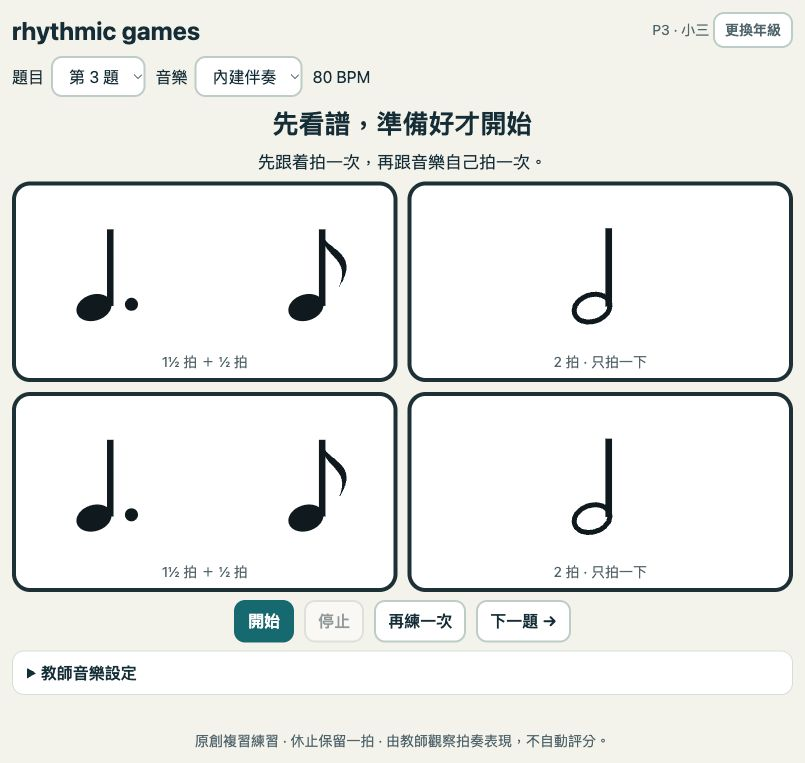
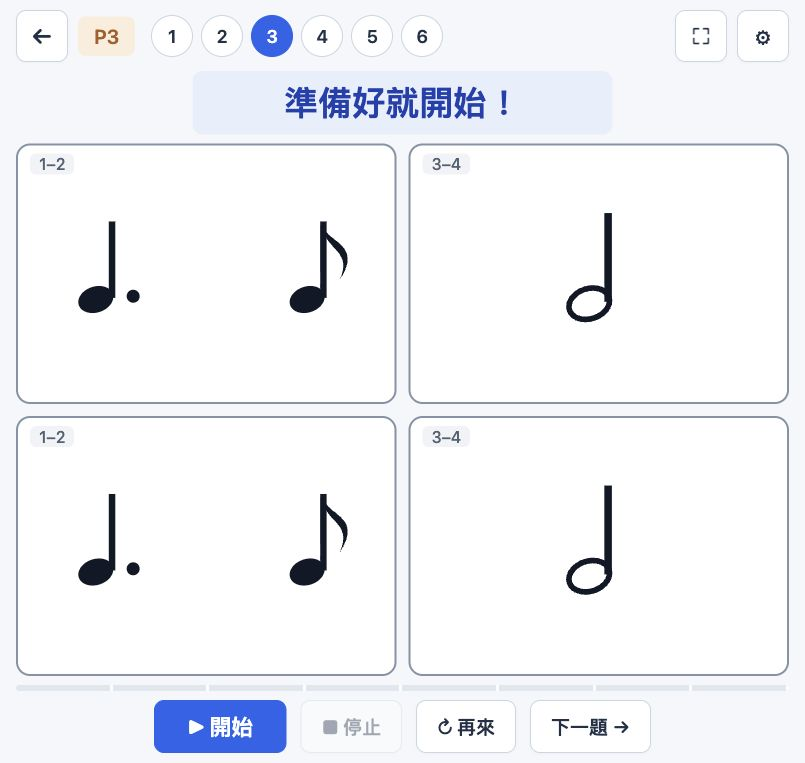
Apply clean blue classroom design
Use a cool white background, navy text, white score cards, pale blue beat highlights and a rose assistance dot. Limit grade colours to grade identifiers and remove bouncing highlights and confetti. Preserve all rhythm, accompaniment, grade and assistance behavior. Regression checks pass; verify desktop and 1024x768 layout and update previews.

diff --git a/index.html b/index.html
@@ -2,66 +2,63 @@
 <html lang="zh-Hant"><meta charset="utf-8"><meta name="viewport" content="width=device-width,initial-scale=1"><title>rhythmic games · 節奏拍奏</title>
 <style>
 [hidden]{display:none!important}*{box-sizing:border-box}
-:root{--accent:#ff5d8f;--dark:#c2185b;--soft:#ffe3ee;--bg1:#d6efff;--bg2:#eef8ff;--ink:#1d1640;font-family:ui-rounded,"SF Pro Rounded","Arial Rounded MT Bold","PingFang TC","Microsoft JhengHei",system-ui,sans-serif;color:var(--ink)}
-body{margin:0;min-height:100dvh;background:linear-gradient(150deg,var(--bg1),var(--bg2));transition:background .4s}
-body[data-grade=P2]{--accent:#00b8a9;--dark:#00796f;--soft:#d5f7f3;--bg1:#d6efff;--bg2:#eef8ff}
-body[data-grade=P3]{--accent:#ff7a1a;--dark:#c24f00;--soft:#ffe6d1;--bg1:#d6efff;--bg2:#eef8ff}
-body[data-grade=P5]{--accent:#7c4dff;--dark:#5122c9;--soft:#ece4ff;--bg1:#d6efff;--bg2:#eef8ff}
-button,select,input{font:inherit;color:inherit}button{cursor:pointer;font-weight:800;border:0;border-radius:18px;background:#fff;padding:12px 20px;box-shadow:0 5px 0 rgba(29,22,64,.18);transition:transform .08s,box-shadow .08s}button:active:not(:disabled){transform:translateY(4px);box-shadow:0 1px 0 rgba(29,22,64,.18)}button:disabled{opacity:.4;cursor:default}
-button:focus-visible,input:focus-visible,select:focus-visible,summary:focus-visible{outline:4px solid #ffcf33;outline-offset:3px}
+:root{--accent:#2563eb;--dark:#1e40af;--soft:#dbeafe;--grade:#2563eb;--grade-soft:#e8effb;--ink:#203047;font-family:system-ui,-apple-system,"PingFang TC","Microsoft JhengHei",sans-serif;color:var(--ink)}
+body{margin:0;min-height:100dvh;background:#f5f7fa}
+body[data-grade=P2]{--grade:#167d79;--grade-soft:#e0f2ef}
+body[data-grade=P3]{--grade:#a75e22;--grade-soft:#fbeddc}
+body[data-grade=P5]{--grade:#7355a3;--grade-soft:#eee8f6}
+button,select,input{font:inherit;color:inherit}button{cursor:pointer;font-weight:600;border:1px solid #cbd5e1;border-radius:10px;background:#fff;padding:12px 20px;box-shadow:0 1px 3px #20304708;transition:background .12s,border-color .12s}button:hover:not(:disabled){background:#edf3fa}button:active:not(:disabled){background:#e5edf7}button:disabled{opacity:.4;cursor:default}
+button:focus-visible,input:focus-visible,select:focus-visible,summary:focus-visible{outline:3px solid #2563eb;outline-offset:3px}
 /* home */
 .grade-home{min-height:100dvh;max-width:1050px;margin:auto;padding:32px 24px;display:flex;flex-direction:column;align-items:center;justify-content:center;gap:18px;position:relative;overflow:hidden}
-.grade-home::before,.grade-home::after{content:'♪';position:absolute;font-size:120px;color:rgba(255,255,255,.7);top:8%;left:6%;animation:float 6s ease-in-out infinite}.grade-home::after{content:'♫';top:auto;left:auto;bottom:8%;right:7%;font-size:150px;animation-delay:-3s}
-@keyframes float{50%{transform:translateY(-22px) rotate(-8deg)}}
-.brand{display:flex;align-items:center;gap:14px}.brand svg{width:72px;height:58px;color:#ff5d8f;filter:drop-shadow(0 4px 0 rgba(29,22,64,.15))}.grade-home h1{margin:0;font-size:clamp(38px,7vw,64px);letter-spacing:-1px}.grade-home h2{margin:0;font-size:24px;opacity:.75}
+.brand{display:flex;align-items:center;gap:14px}.brand svg{width:54px;height:46px;color:#2563eb}.grade-home h1{margin:0;font-size:clamp(32px,5vw,48px);letter-spacing:-1px}.grade-home h2{margin:0;font-size:22px;color:#526174;font-weight:500}
 .grade-choices{display:grid;grid-template-columns:repeat(3,1fr);gap:22px;width:100%;margin-top:8px;position:relative;z-index:1}
-.grade-choices button{--c:#00b8a9;--d:#00796f;min-height:220px;border-radius:30px;display:flex;flex-direction:column;align-items:center;justify-content:center;gap:10px;background:var(--c);color:#fff;box-shadow:0 10px 0 var(--d);transition:transform .15s}
-.grade-choices button:hover{transform:translateY(-6px) rotate(-1deg)}#chooseP3{--c:#ff7a1a;--d:#c24f00}#chooseP5{--c:#7c4dff;--d:#5122c9}
-.grade-choices strong{font-size:56px;line-height:1}.grade-choices span:last-child{font-size:22px;opacity:.95}.grade-icon{height:70px;color:#fff}.grade-icon svg{height:100%;width:auto;max-width:160px}
+.grade-choices button{--c:#167d79;min-height:220px;border-radius:14px;border:1px solid #cbd5e1;border-top:4px solid var(--c);display:flex;flex-direction:column;align-items:center;justify-content:center;gap:14px;background:#fff;color:#203047;box-shadow:0 2px 6px #20304706;transition:border-color .12s,background .12s}
+.grade-choices button:hover{border-color:var(--c);background:#fafcff}#chooseP3{--c:#a75e22}#chooseP5{--c:#7355a3}
+.grade-choices strong{font-size:44px;line-height:1;color:var(--c);font-weight:600}.grade-choices span:last-child{font-size:22px;opacity:.95}.grade-icon{height:62px;color:var(--c)}.grade-icon svg{height:100%;width:auto;max-width:160px}
 #gradePending{text-align:center}
 /* game */
 main{max-width:1180px;margin:auto;padding:14px 18px;height:100dvh;display:flex;flex-direction:column;gap:12px}
 header{display:flex;align-items:center;gap:10px}.icon{width:52px;height:52px;padding:0;font-size:24px;display:grid;place-items:center;flex:none}
-#gradeLabel{background:var(--accent);color:#fff;font-weight:900;font-size:22px;border-radius:999px;padding:8px 18px;box-shadow:0 4px 0 var(--dark);white-space:nowrap}
-#dots{display:flex;gap:8px;flex-wrap:wrap;margin-left:6px}#dots button{width:42px;height:42px;padding:0;border-radius:50%;font-size:18px;box-shadow:0 4px 0 rgba(29,22,64,.15)}#dots button.current{background:var(--accent);color:#fff;box-shadow:0 4px 0 var(--dark);transform:scale(1.12)}
+#gradeLabel{background:var(--grade-soft);color:var(--grade);font-weight:600;font-size:20px;border-radius:8px;padding:8px 16px;box-shadow:none;white-space:nowrap}
+#dots{display:flex;gap:8px;flex-wrap:wrap;margin-left:6px}#dots button{width:42px;height:42px;padding:0;border-radius:50%;font-size:18px;box-shadow:none}#dots button.current{background:var(--accent);color:#fff;border-color:var(--accent);box-shadow:none;transform:none}
 .spacer{flex:1}
-#status{margin:0;text-align:center;font-size:clamp(28px,4.2vw,44px);font-weight:900;align-self:center;background:#fff;border-radius:999px;padding:6px 34px;box-shadow:0 6px 0 rgba(29,22,64,.12);min-width:min(420px,90%)}
-#status[data-phase=count]{background:#ffcf33;font-size:clamp(40px,6vw,64px);padding:0 40px;animation:pop .3s}
-#status[data-phase=guided]{background:var(--accent);color:#fff}#status[data-phase=independent]{background:var(--dark);color:#fff}#status[data-phase=done]{background:#ffcf33;animation:pop .4s}
-@keyframes pop{0%{transform:scale(.8)}60%{transform:scale(1.08)}}
+#status{margin:0;text-align:center;font-size:clamp(28px,4.2vw,44px);font-weight:600;align-self:center;background:#e8effb;color:#1e40af;border-radius:10px;padding:8px 28px;box-shadow:none;min-width:min(420px,90%)}
+#status[data-phase=count]{background:#e8effb;color:#1e40af;font-size:clamp(36px,5vw,56px);padding:0 40px}
+#status[data-phase=guided],#status[data-phase=independent]{background:#e8effb;color:#1e40af}#status[data-phase=done]{background:#edf1f5;color:#203047}
+
 #instruction,footer,.controls:not(.actions):not(.in-drawer){display:none}
 #score{flex:1;min-height:220px;display:grid;grid-template-columns:repeat(4,minmax(0,1fr));grid-template-rows:repeat(2,minmax(0,1fr));gap:16px}
-.cell{background:#fff;border:5px solid var(--accent);border-radius:28px;box-shadow:0 8px 0 var(--dark);display:flex;align-items:center;justify-content:center;position:relative;min-height:0;transition:transform .12s,background .12s}
-.cell svg{height:74%;width:88%;max-height:170px;color:var(--ink)}.cell.wide{grid-column:span 2}.cell.wide .pair-symbol{max-height:160px;width:95%}
-.cell.active{background:#ffe14d;border-color:#ff9f1a;box-shadow:0 8px 0 #d97a00,0 0 0 8px rgba(255,225,77,.55);transform:translateY(-6px) scale(1.04);animation:bounce .25s}
-@keyframes bounce{50%{transform:translateY(-10px) scale(1.07)}}
-.beatno{position:absolute;top:8px;left:12px;font-size:16px;font-weight:900;color:#fff;background:var(--accent);border-radius:12px;padding:1px 9px}
+.cell{background:#fff;border:2px solid #8492a6;border-radius:14px;box-shadow:none;display:flex;align-items:center;justify-content:center;position:relative;min-height:0;transition:none}
+.cell svg{height:74%;width:88%;max-height:170px;color:#111827}.cell.wide{grid-column:span 2}.cell.wide .pair-symbol{max-height:160px;width:95%}
+.cell.active{background:#dbeafe;border-color:#2563eb;box-shadow:inset 0 0 0 1px #2563eb;transform:none;animation:none}
+
+.beatno{position:absolute;top:8px;left:12px;font-size:16px;font-weight:500;color:#526174;background:#f0f3f7;border-radius:6px;padding:1px 9px}
 .cell .label{position:absolute;bottom:8px;font-size:16px;font-weight:800;color:var(--dark)}.cell .syl{color:var(--accent)}
-#progress{height:14px;background:rgba(255,255,255,.7);border-radius:8px;overflow:hidden;position:relative}#progress i{display:block;height:100%;width:0;background:linear-gradient(90deg,var(--accent),#ffcf33);border-radius:8px}#progress::after{content:'';position:absolute;inset:0;background:repeating-linear-gradient(90deg,transparent 0 calc(12.5% - 3px),rgba(255,255,255,.9) calc(12.5% - 3px) 12.5%)}
+#progress{height:6px;background:#e1e7ee;border-radius:4px;overflow:hidden;position:relative}#progress i{display:block;height:100%;width:0;background:#2563eb;border-radius:8px}#progress::after{content:'';position:absolute;inset:0;background:repeating-linear-gradient(90deg,transparent 0 calc(12.5% - 3px),rgba(255,255,255,.9) calc(12.5% - 3px) 12.5%)}
 .actions{display:flex;justify-content:center;gap:14px;flex-wrap:wrap}.actions button{font-size:22px;padding:14px 26px}
-.primary{background:var(--accent);color:#fff;box-shadow:0 6px 0 var(--dark);font-size:26px!important;padding:14px 40px!important}
-#message{min-height:0;margin:0;text-align:center;font-weight:700;color:#b3261e}#message:empty{display:none}
-#confetti{position:fixed;inset:0;pointer-events:none;overflow:hidden;z-index:20}#confetti i{position:absolute;top:-20px;width:12px;height:18px;border-radius:3px;animation:fall 2.2s ease-in forwards}
-@keyframes fall{to{transform:translateY(105vh) rotate(720deg)}}
+.primary{background:#2563eb;color:#fff;border-color:#2563eb;box-shadow:none;font-size:24px!important;padding:14px 40px!important}
+.primary:hover:not(:disabled){background:#1e40af;border-color:#1e40af}#message{min-height:0;margin:0;text-align:center;font-weight:700;color:#b3261e}#message:empty{display:none}
 /* teacher drawer */
-.settings{position:fixed;top:0;right:0;bottom:0;width:min(400px,100%);background:#fff;z-index:30;padding:18px 20px;overflow:auto;box-shadow:-10px 0 40px rgba(29,22,64,.25);color:#1d2b33;font-family:system-ui,sans-serif}
+.settings{position:fixed;top:0;right:0;bottom:0;width:min(400px,100%);background:#fff;z-index:30;padding:18px 20px;overflow:auto;box-shadow:-10px 0 40px rgba(32,48,71,.12);color:#1d2b33;font-family:system-ui,sans-serif}
 .settings:not([open]){display:none}.settings summary{list-style:none;cursor:pointer;font-weight:800;font-size:20px;margin-bottom:6px}.settings summary::-webkit-details-marker{display:none}
 .settings fieldset{border:1px solid #d9dde3;border-radius:12px;margin:10px 0 0;padding:6px 12px 12px}.settings legend{font-weight:800;color:var(--dark);padding:0 6px}
 .settings button,.settings select{box-shadow:none;border:2px solid #cfd6dd;border-radius:10px;padding:7px 12px;background:#fff}.settings .controls{display:flex;flex-wrap:wrap;gap:10px;align-items:center;margin-top:8px}.settings label{display:flex;align-items:center;gap:7px}.settings small{font-size:13px;color:#5b6770}
 .settings input[type=number]{width:100px;padding:6px;border:1px solid #b9c2ca;border-radius:7px}.settings input[type=range]{width:130px}#file{max-width:290px}#fileInfo{font-size:14px;overflow-wrap:anywhere}
-.note-cue{display:none;fill:#ff3d7f}.cell.assisting .note-cue{display:block}#calibrate.tapping{background:#ffcf33;border-color:#e0a800}.keys{font-size:13px;color:#5b6770;line-height:1.9}kbd{border:1px solid #b9c2ca;border-bottom-width:2px;border-radius:5px;padding:0 5px;font:inherit;background:#fff}
+.note-cue{display:none;fill:#be185d}.cell.assisting .note-cue{display:block}#calibrate.tapping{background:#dbeafe;border-color:#2563eb}.keys{font-size:13px;color:#5b6770;line-height:1.9}kbd{border:1px solid #b9c2ca;border-bottom-width:2px;border-radius:5px;padding:0 5px;font:inherit;background:#fff}
 @media(max-height:820px){main{gap:9px;padding:10px 16px}#score{gap:12px}.actions button{font-size:19px;padding:10px 20px}.primary{font-size:22px!important;padding:10px 32px!important}}
 @media(max-width:700px){.grade-choices{grid-template-columns:1fr;gap:16px}.grade-choices button{min-height:120px;flex-direction:row;gap:18px}.grade-choices strong{font-size:40px}.grade-icon{height:50px}.grade-home::before,.grade-home::after{font-size:70px}
 main{height:auto;min-height:100dvh;padding:10px}header{flex-wrap:wrap;gap:8px}.icon{width:44px;height:44px;font-size:20px}#gradeLabel{font-size:17px;padding:6px 12px}#dots{order:5;width:100%;justify-content:center;margin:0}#dots button{width:38px;height:38px}
-#score{height:330px;flex:none;gap:9px}.cell{border-width:4px;border-radius:18px;box-shadow:0 5px 0 var(--dark)}.beatno{font-size:12px;top:4px;left:6px;padding:0 6px}.cell .label{font-size:12px;bottom:4px}.actions{gap:6px;flex-wrap:nowrap}.actions button{font-size:15px;padding:10px 11px}.primary{font-size:17px!important;padding:10px 16px!important}}
+#score{height:330px;flex:none;gap:9px}.cell{border-width:2px;border-radius:12px;box-shadow:none}.beatno{font-size:12px;top:4px;left:6px;padding:0 6px}.cell .label{font-size:12px;bottom:4px}.actions{gap:6px;flex-wrap:nowrap}.actions button{font-size:15px;padding:10px 11px}.primary{font-size:17px!important;padding:10px 16px!important}}
 body.projector main{max-width:none;padding:2vh 2.5vw;gap:1.6vh}body.projector #dots,body.projector #gear,body.projector #changeGrade{display:none}
-body.projector #status{font-size:clamp(32px,6vh,80px)}body.projector #score{gap:2.4vh}body.projector .cell{border-width:7px}body.projector .cell svg{max-height:none}body.projector .beatno,body.projector .cell .label{font-size:clamp(16px,2.4vh,28px)}body.projector #progress{height:2vh}
+body.projector #status{font-size:clamp(32px,6vh,80px)}body.projector #score{gap:2.4vh}body.projector .cell{border-width:3px}body.projector .cell svg{max-height:none}body.projector .beatno,body.projector .cell .label{font-size:clamp(16px,2.4vh,28px)}body.projector #progress{height:2vh}
+@media(prefers-reduced-motion:reduce){*,*::before,*::after{animation:none!important;transition:none!important;scroll-behavior:auto!important}}
 </style>
 <section id="gradeHome" class="grade-home"><div class="brand"><svg viewBox="0 0 80 64" fill="currentColor" aria-hidden="true"><ellipse cx="18" cy="50" rx="11" ry="8" transform="rotate(-18 18 50)"/><ellipse cx="60" cy="44" rx="11" ry="8" transform="rotate(-18 60 44)"/><path d="M28 49V10L70 4V43" stroke="currentColor" stroke-width="5" fill="none"/><path d="M28 10L70 4V13L28 19Z"/></svg><h1>rhythmic games</h1></div><h2>選擇年級</h2><div class="grade-choices"><button id="chooseP2"><span class="grade-icon" id="iconP2"></span><strong>P2</strong><span>小二</span></button><button id="chooseP3"><span class="grade-icon" id="iconP3"></span><strong>P3</strong><span>小三</span></button><button id="chooseP5"><span class="grade-icon" id="iconP5"></span><strong>P5</strong><span>小五</span></button></div><div id="gradePending" hidden role="status"><p>此年級未有題目。</p><button id="backHome">返回</button></div></section><main id="game" hidden><header><button id="changeGrade" class="icon" aria-label="更換年級" title="更換年級">←</button><span id="gradeLabel">P2</span><nav id="dots" aria-label="題目"></nav><span class="spacer"></span><button id="projector" class="icon" aria-pressed="false" aria-label="投影模式" title="投影模式（F）">⛶</button><button id="gear" class="icon" aria-label="教師設定" title="教師設定">⚙</button></header>
 <p id="status" role="status" tabindex="-1">準備好就開始！</p><p id="instruction" hidden></p>
 <div id="score" aria-label="八拍節奏譜，先讀上行四拍，再讀下行四拍"></div><div id="progress" aria-hidden="true"><i id="progressFill"></i></div>
 <div class="controls actions"><button id="start" class="primary">▶ 開始</button><button id="stop" disabled>■ 停止</button><button id="repeat">↻ 再來</button><button id="next">下一題 →</button></div>
-<p id="message" role="alert"></p><div id="confetti" aria-hidden="true"></div>
+<p id="message" role="alert"></p>
 <details id="settings" class="settings"><summary>✕ 教師設定</summary><fieldset><legend>題目及音樂</legend><div class="controls in-drawer"><label>題目 <select id="question"></select></label><label>音樂 <select id="source"><option value="builtin">內建伴奏</option><option value="custom">自選音樂</option></select></label><span id="tempo">80 BPM</span></div>
 <div id="builtin" class="controls in-drawer"><label>伴奏速度 <select id="builtinBpm"><option>60</option><option selected>80</option><option>100</option></select></label></div>
 <div id="custom" hidden><div class="controls in-drawer"><label>音樂檔 <input id="file" type="file" accept=".mp3,.m4a,.wav,audio/*"></label><label>BPM <input id="customBpm" type="number" min="40" max="160" step="0.1" placeholder="40–160"></label><label>第一拍（秒） <input id="offset" type="number" min="0" step="0.01" placeholder="例如 0.35"></label><button id="preview">對拍試聽・8拍</button></div><p id="fileInfo">載入速度穩定的音樂，再設定 BPM 和第一拍位置。</p><small>試聽時調整拍子聲與音樂是否吻合；正式練習需要第一拍之後至少十六拍音樂。檔案只在本機處理。</small></div>
@@ -112,7 +109,7 @@ function clearHighlight(){document.querySelectorAll('.cell').forEach(c=>{c.class
 function stop(message='已停止'){serial++;cancelAnimationFrame(raf);run=null;voices.forEach(n=>{try{n.stop()}catch{}});voices.clear();clearHighlight();lock(false);setPhase(message.includes('完成')?'done':'');setProgress(0);$('status').textContent=message;$('instruction').textContent='先跟着拍一次，再跟音樂自己拍一次。'}
 async function begin(preview=false){if(!pattern())return;stop();updateTempo();$('message').textContent='';const token=serial,custom=$('source').value==='custom';try{if(preview&&!custom)throw Error('對拍試聽只適用於自選音樂。');const cfg=validate(custom,preview?8:16);lock(true);await audioReady();if(token!==serial)return;const origin=ctx.currentTime+.15;run={pattern:pattern(),origin,spb:cfg.spb,preview,end:preview?8:20,events:timeline(pattern(),cfg.spb,custom,preview)};if(custom){let node=track(ctx.createBufferSource());node.buffer=audioBuffer;node.connect(musicBus);node.start(origin+(preview?0:4*cfg.spb),cfg.offset,(preview?8:16)*cfg.spb)}$('settings').open=false;frame()}catch(e){if(token!==serial)return;stop('尚未開始');$('message').textContent=e.message||'未能播放音樂，請重新載入。';$('settings').open=custom}}
 function phase(t,preview=false){t+=1e-7;return preview?'preview':t<0?'ready':t<4?'count':t<12?'guided':t<20?'independent':'done'}
-function frame(){if(!run)return;let r=run,t=(ctx.currentTime-r.origin-latency())/r.spb,now=ctx.currentTime;for(let e of r.events){if(e.done)continue;if(e.time<=now-r.origin+.12){e.done=true;if(e.time>=now-r.origin-.025)emit(e,Math.max(now,r.origin+e.time),r.spb)}}let state=phase(t,r.preview);setPhase(state);setProgress(state==='guided'||state==='independent'?((t-4)%8)/8:state==='preview'?Math.min(t/8,1):0);$('status').textContent=state==='preview'?'對拍試聽 · 聽拍子聲是否對齊音樂':state==='ready'?'準備':state==='count'?`${Math.floor(t)+1}`:state==='guided'?'👀 跟着拍':'👏 自己拍';$('instruction').textContent=state==='independent'?'跟音樂看譜拍奏；休止也保留一拍。':state==='preview'?'若拍子未對齊，停止後調整 BPM 或第一拍位置。':(grade==='P5'?'先讀上行，再讀下行；每格一拍，十六分音符要快而平均。':grade==='P3'?'先讀上行，再讀下行；二分拍一下，附點組合先長後短。':'先讀上行，再讀下行；ti-ti 均分一拍。');document.querySelectorAll('.cell').forEach((c,i)=>c.classList.toggle('active',(state==='guided'||state==='independent')&&((t-4+1e-7)%8)>=r.pattern.segments[i].startBeat&&((t-4+1e-7)%8)<r.pattern.segments[i].startBeat+r.pattern.segments[i].durationBeats));showAssistance(r.pattern,(t-4)%8,!!$('assistance').checked&&(state==='guided'||state==='independent'));if(t+1e-7>=r.end){if(!r.preview)celebrate();stop(r.preview?'試聽完成 · 可調整對拍設定':'🎉 完成！');return}raf=requestAnimationFrame(frame)}
+function frame(){if(!run)return;let r=run,t=(ctx.currentTime-r.origin-latency())/r.spb,now=ctx.currentTime;for(let e of r.events){if(e.done)continue;if(e.time<=now-r.origin+.12){e.done=true;if(e.time>=now-r.origin-.025)emit(e,Math.max(now,r.origin+e.time),r.spb)}}let state=phase(t,r.preview);setPhase(state);setProgress(state==='guided'||state==='independent'?((t-4)%8)/8:state==='preview'?Math.min(t/8,1):0);$('status').textContent=state==='preview'?'對拍試聽 · 聽拍子聲是否對齊音樂':state==='ready'?'準備':state==='count'?`${Math.floor(t)+1}`:state==='guided'?'跟着拍 · 第一遍':'自己拍 · 第二遍';$('instruction').textContent=state==='independent'?'跟音樂看譜拍奏；休止也保留一拍。':state==='preview'?'若拍子未對齊，停止後調整 BPM 或第一拍位置。':(grade==='P5'?'先讀上行，再讀下行；每格一拍，十六分音符要快而平均。':grade==='P3'?'先讀上行，再讀下行；二分拍一下，附點組合先長後短。':'先讀上行，再讀下行；ti-ti 均分一拍。');document.querySelectorAll('.cell').forEach((c,i)=>c.classList.toggle('active',(state==='guided'||state==='independent')&&((t-4+1e-7)%8)>=r.pattern.segments[i].startBeat&&((t-4+1e-7)%8)<r.pattern.segments[i].startBeat+r.pattern.segments[i].durationBeats));showAssistance(r.pattern,(t-4)%8,!!$('assistance').checked&&(state==='guided'||state==='independent'));if(t+1e-7>=r.end){stop(r.preview?'試聽完成 · 可調整對拍設定':'完成');return}raf=requestAnimationFrame(frame)}
 async function loadFile(){stop('正在載入音樂…');let id=++loadSerial,file=$('file').files[0];audioBuffer=null;$('customBpm').value='';$('offset').value='';updateTempo();$('message').textContent='';$('fileInfo').textContent='';if(!file){$('status').textContent='準備好就開始！';return}loading=true;lock(false);try{await audioReady();const bytes=await file.arrayBuffer();let buffer=await ctx.decodeAudioData(bytes);if(id!==loadSerial)return;audioBuffer=buffer;$('fileInfo').textContent=`${file.name} · ${buffer.duration.toFixed(2)} 秒；請重新設定 BPM 和第一拍位置。`;$('status').textContent='音樂已載入 · 請設定並試聽'}catch(e){if(id!==loadSerial)return;$('message').textContent='無法解碼這個音樂檔，請改用瀏覽器支援的 MP3、M4A 或 WAV。';$('status').textContent='音樂未能載入'}finally{if(id===loadSerial){loading=false;lock(false)}}}
 $('start').onclick=()=>begin();$('repeat').onclick=()=>begin();$('stop').onclick=()=>stop();$('preview').onclick=()=>begin(true);$('next').onclick=()=>{stop('準備好就開始！');$('question').selectedIndex=($('question').selectedIndex+1)%library().length;render()};$('question').onchange=()=>{stop('準備好就開始！');render()};$('source').onchange=()=>{stop('準備好就開始！');const custom=$('source').value==='custom';$('custom').hidden=!custom;$('builtin').hidden=custom;$('settings').open=custom;updateTempo()};$('file').onchange=loadFile;$('customBpm').oninput=updateTempo;for(let id of ['builtinBpm','customBpm','offset'])$(id).onchange=()=>{stop('設定已更新');updateTempo()};for(let [id,bus,label] of [['musicVolume',()=>musicBus,'musicValue'],['demoVolume',()=>demoBus,'demoValue']])$(id).oninput=()=>{$(label).textContent=$(id).value+'%';if(bus())bus().gain.value=Number($(id).value)/100};document.addEventListener('visibilitychange',()=>{if(document.hidden)stop('已停止')});window.addEventListener('pagehide',()=>stop());for(const key of ['P2','P3','P5'])$('choose'+key).onclick=()=>selectGrade(key);$('changeGrade').onclick=goHome;$('backHome').onclick=goHome;updateTempo();
 function setPhase(v){const st=$('status');if(st.dataset)st.dataset.phase=v}
@@ -144,6 +141,5 @@ $('syllables').onchange=()=>{try{localStorage.setItem(SYL_KEY,$('syllables').che
 function renderDots(){$('dots').innerHTML=library().map((p,i)=>`<button data-q="${i}" class="${i===$('question').selectedIndex?'current':''}" aria-label="第 ${p.id} 題"${run?' disabled':''}>${p.id}</button>`).join('')}
 $('dots').onclick=e=>{const b=e.target.closest&&e.target.closest('[data-q]');if(!b||run)return;stop('準備好就開始！');$('question').selectedIndex=Number(b.dataset.q);render()};
 $('gear').onclick=()=>{$('settings').open=!$('settings').open};
-const COLORS=['#ff5d8f','#ffcf33','#00b8a9','#7c4dff','#ff7a1a','#4dabff'];
-function celebrate(){const box=$('confetti');let html='';for(let i=0;i<36;i++)html+=`<i style="left:${(Math.random()*100).toFixed(1)}%;background:${COLORS[i%COLORS.length]};animation-delay:${(Math.random()*.5).toFixed(2)}s;animation-duration:${(1.6+Math.random()*1.2).toFixed(2)}s"></i>`;box.innerHTML=html;setTimeout(()=>{box.innerHTML=''},3200)}
+
 </script></html>

diff --git a/README.md b/README.md
@@ -69,7 +69,7 @@ P5六題（每格一拍，循序加入新節奏型）：
 - 鍵盤／簡報筆：空白鍵、Enter、「.」或B開始／停止；→或PgDn下一題，←或PgUp上一題；R再練一次；F投影模式。輸入框內按鍵不受影響；回合中不能換題。
 - 聲畫延遲：教師設定內有0–400 ms滑桿及「拍手校正」。校正播放12下拍子聲（90 BPM），聽到就按空白鍵或按鈕，取第3–12下的中位數。亮格及階段顯示按此延遲推後，聲音排程不變。數值只存於此裝置瀏覽器（localStorage）；私密瀏覽可能不保存。
 - 投影模式：全螢幕、隱藏設定及頁腳、放大狀態文字及譜、加粗格線及高對比亮格。按Esc或「離開投影」返回。
-- 階段顯示：預備拍藍色、第一遍綠色、第二遍橙色、完成灰色。
+- 階段顯示：預備拍及兩遍拍奏使用淡藍色，配合明確階段文字；完成灰色。
 - 尚未驗證：真實藍牙／投影喇叭的校正結果、實體簡報筆按鍵、iPad Safari全螢幕（iPhone不支援網頁全螢幕）。
 
 ## 年級伴奏與示範聲
@@ -81,7 +81,7 @@ P5六題（每格一拍，循序加入新節奏型）：
 
 ## 設計及版面
 
-- 年級顏色：P2青綠、P3橙、P5紫；首頁卡片、年級標籤、開始按鈕、拍號及進度條跟隨所選年級。首頁有標誌及各年級代表節奏圖示。
+- 年級顏色：P2青綠、P3橙、P5紫；年級色只用於首頁卡片頂線、圖示及年級標籤；操作及進度統一使用藍色。首頁有標誌及各年級代表節奏圖示。
 - 每格左上角顯示拍號（每行1–4；兩拍格顯示「1–2」或「3–4」）。
 - 譜下方進度條分八段，第一遍及第二遍各由零開始。
 - 教師設定分「音樂」及「課室」兩組；寬度640px以上以右側抽屜開啟，不壓縮譜面。
@@ -90,8 +90,8 @@ P5六題（每格一拍，循序加入新節奏型）：
 
 ## 學生介面（2026-10 改版）
 
-- 鮮明遊戲風格：淺藍背景，各年級有主色（P2青綠、P3橙、P5紫），圓角立體按鈕及格子，亮格跳動放大，完成時彩紙動畫。
-- 學生畫面只保留：返回、年級、題號圓點（1–6，可直接點選）、狀態（預備拍大數字、👀 跟着拍、👏 自己拍、🎉 完成！）、譜、進度條及開始／停止／再來／下一題。
+- 「清爽藍」視覺：冷白背景、深藍文字、白色譜卡、淡藍亮格及玫紅跟音光點。使用細邊框與輕陰影，移除跳動放大及完成彩紙，讓注意力留在讀譜。
+- 學生畫面只保留：返回、年級、題號圓點（1–6，可直接點選）、狀態（預備拍大數字、跟着拍 · 第一遍、自己拍 · 第二遍、完成）、譜、進度條及開始／停止／再來／下一題。
 - 教師設定（題目選單、音樂來源、速度、音量、唸法、聲畫延遲、快捷鍵說明）收在右上⚙抽屜；⛶為投影模式。
 - 首頁只有標誌、「選擇年級」及三張大卡片。
 
